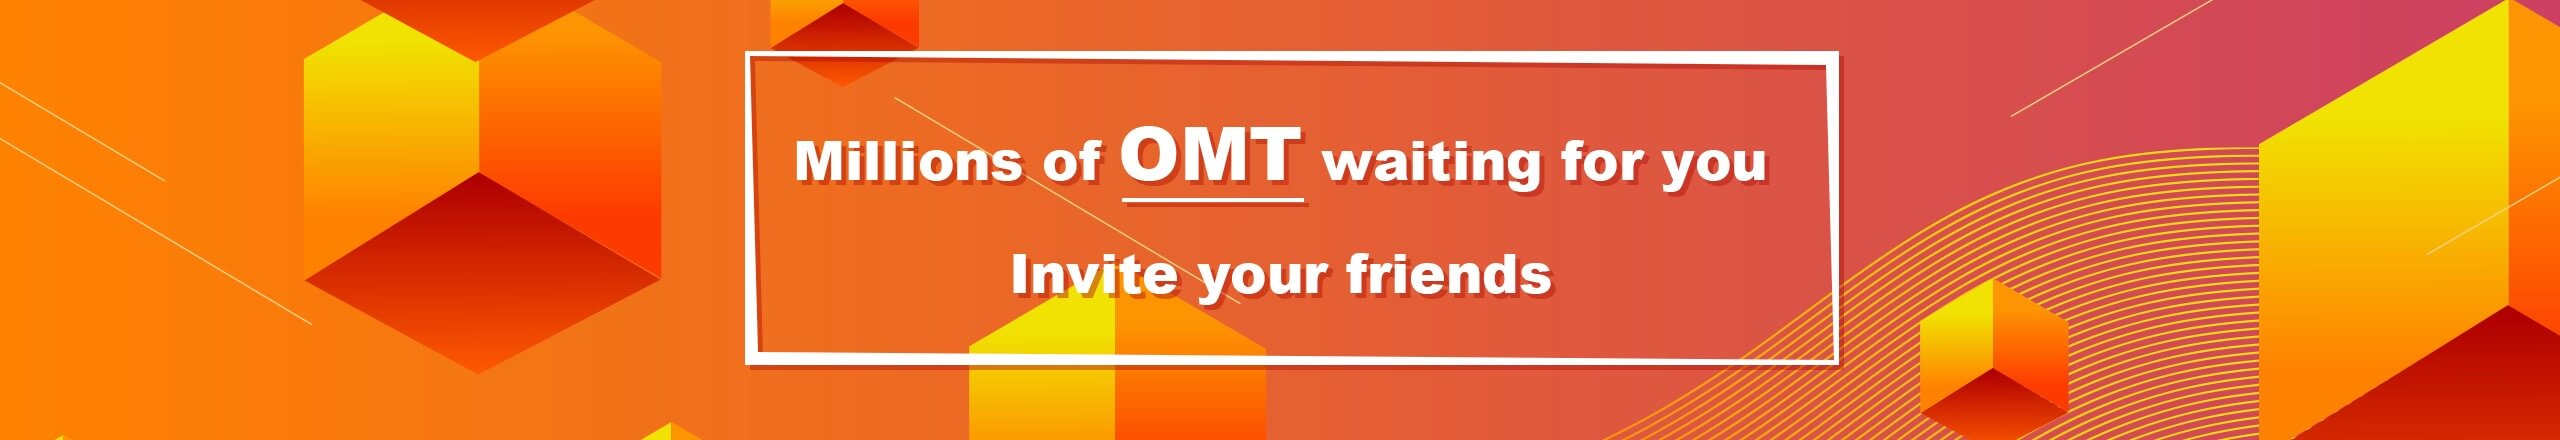
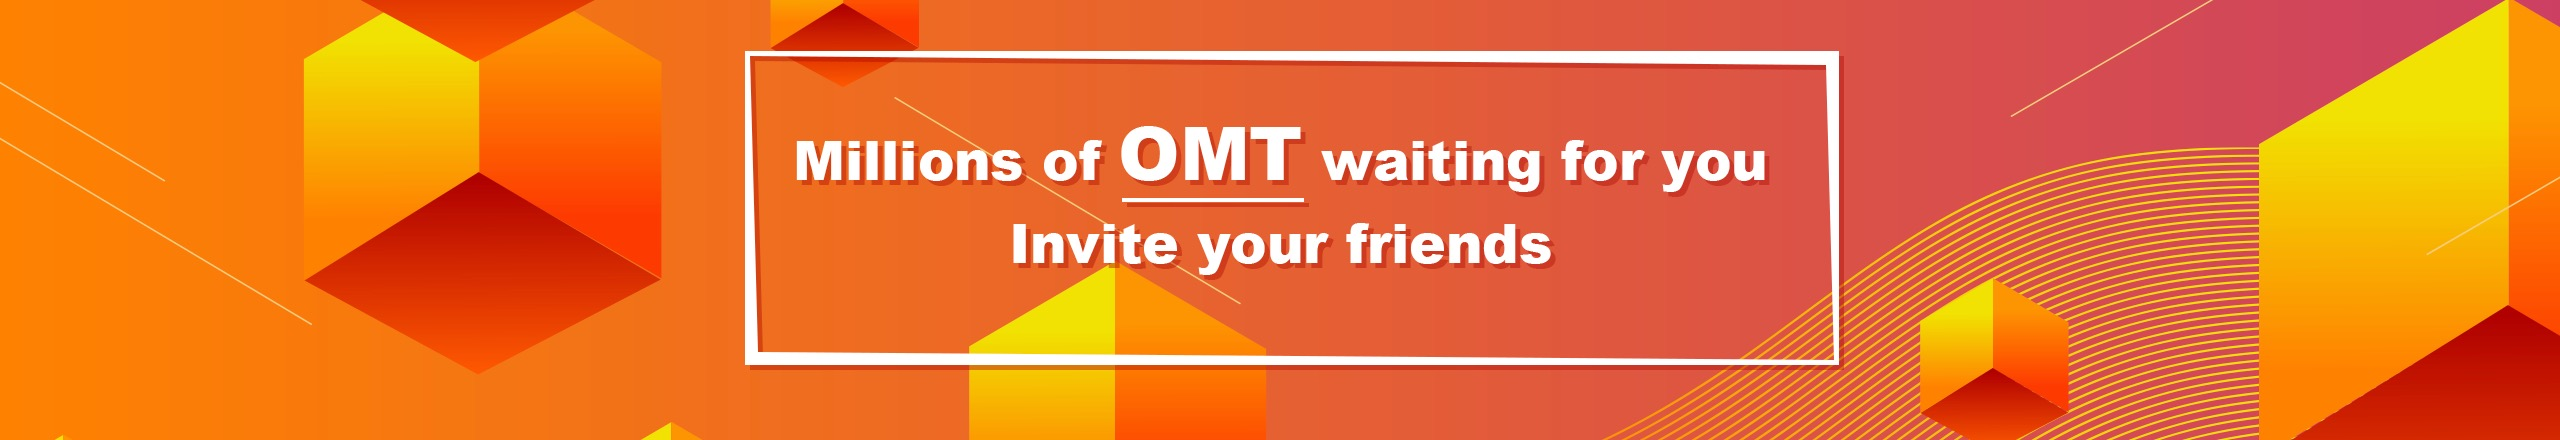
feat: 新增banner

Changed region(s): [[0.375, 0.5023, 0.625, 0.7091], [0.8125, 0.975, 0.8438, 1.0], [0.75, 0.5023, 0.7812, 0.5318]]

diff --git a/src/components/invite/invite_friends.vue b/src/components/invite/invite_friends.vue
@@ -1,6 +1,6 @@
 <template>
   <div class='invite'>
-    <div class="banner">
+    <div :class="klass">
     </div>
     <article class='invite-container'>
       <section class="invite-target g-shadow">
@@ -45,12 +45,16 @@
 </template>
 
 <script>
+  import { CURRENT_lANGUAGE } from 'config/config';
+
   export default {
     name: '',
-    data() {
-      return {};
-    },
     computed: {
+      klass() {
+        const result = ['banner']
+        result.push(`banner-img-${CURRENT_lANGUAGE.toLowerCase()}`)
+        return result
+      },
       link() {
         return window.location.href.replace("invite", "user/register?invitationCode=" +
           this.$store.state.userInfo.invite)
@@ -70,10 +74,19 @@
   $baseImage: '~images';
   .banner {
     height: 530px;
-    background: url(#{$baseImage}/Invite-Banner.jpg) no-repeat center;
+    background-repeat: no-repeat;
+    background-position: center;
     background-size: cover;
   }
-
+  .banner-img-zh-cn {
+    background-image: url('~images/home/banner2-zh-cn.jpg');
+  }
+  .banner-img-zh-hk {
+    background-image: url('~images/home/banner2-zh-hk.jpg');
+  }
+  .banner-img-en-us {
+    background-image: url('~images/home/banner2-en-us.jpg');
+  }
   .invite {
     margin-bottom: 30px;
     &-container {
